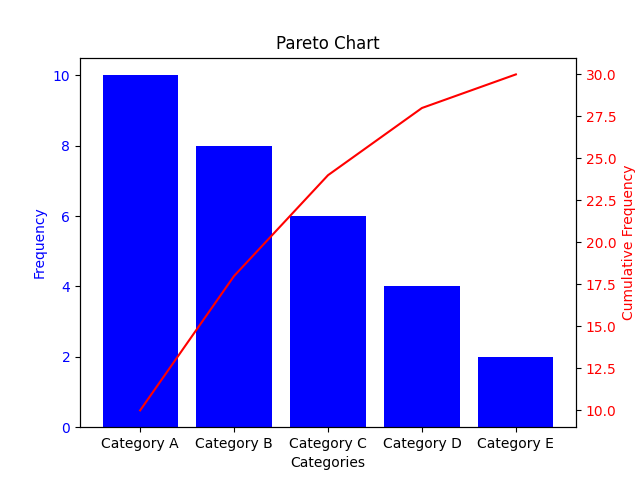
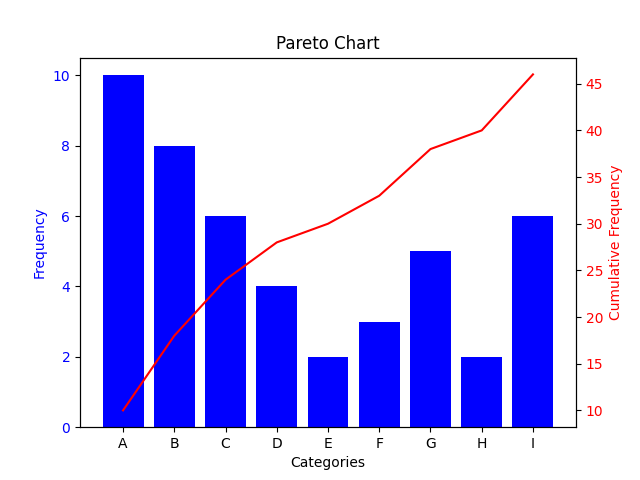
with random values

diff --git a/Pareto_chart.py b/Pareto_chart.py
@@ -1,17 +1,17 @@
 import matplotlib.pyplot as plt
 
 # Sample data (replace with your own)
-categories = ['Category A', 'Category B', 'Category C', 'Category D', 'Category E']
-frequency = [10, 8, 6, 4, 2]
+categories = ['A', 'B', 'C', 'D', 'E','F', 'G', 'H', 'I']
+Value = [10, 8, 6, 4, 2,3,5,2,6]
 
 # Calculate cumulative frequency
-cumulative_frequency = [sum(frequency[:i+1]) for i in range(len(frequency))]
+cumulative_frequency = [sum(Value[:i+1]) for i in range(len(Value))]
 
 # Create the Pareto chart
 fig, ax1 = plt.subplots()
 
 # Create the bar chart
-ax1.bar(categories, frequency, color='b')
+ax1.bar(categories, Value, color='b')
 ax1.set_xlabel('Categories')
 ax1.set_ylabel('Frequency', color='b')
 ax1.tick_params(axis='y', labelcolor='b')
